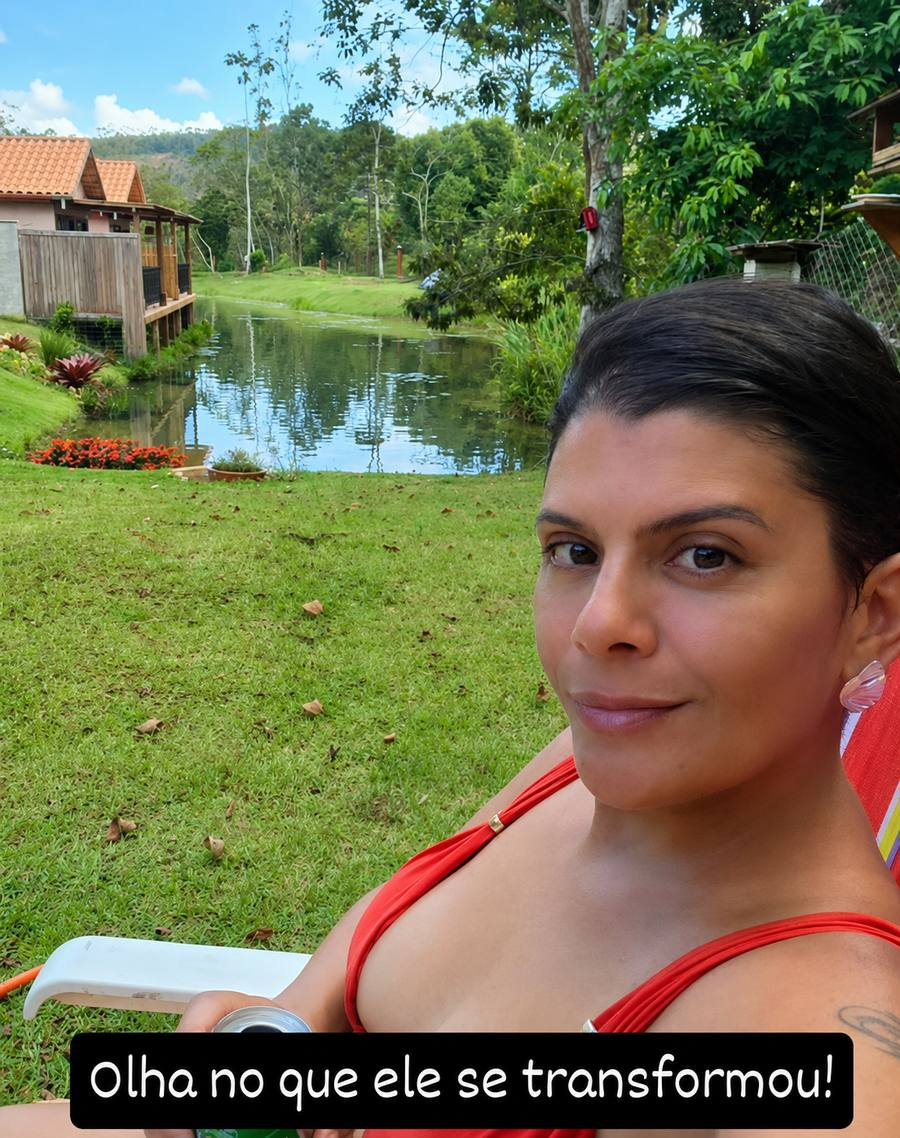
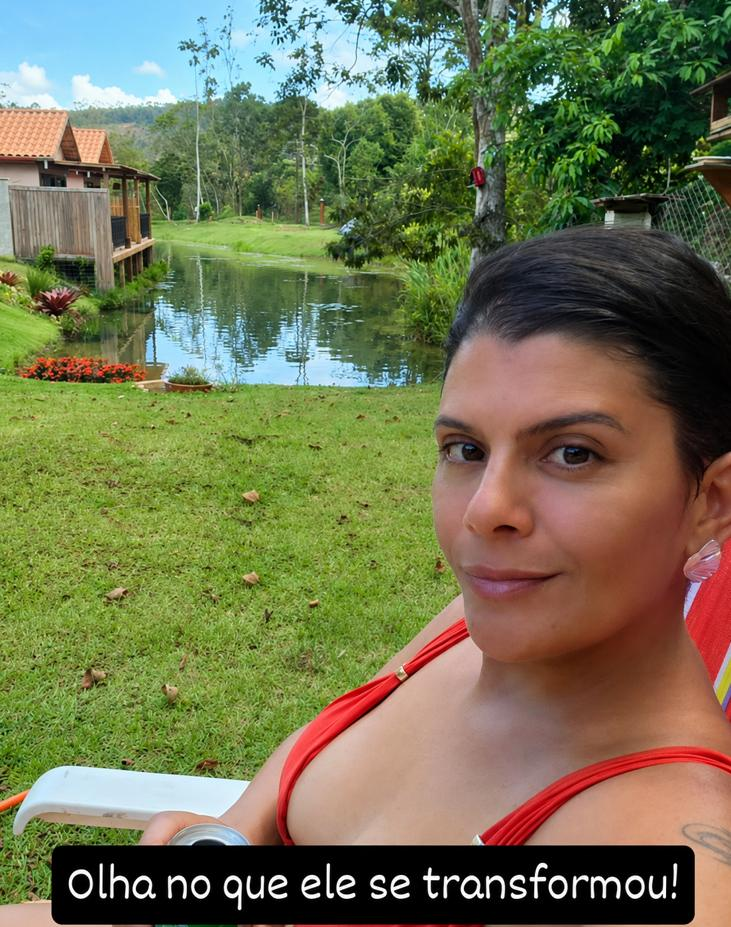
Corrige distorcao de imagem no artigo e ajusta legenda do depois

diff --git a/blog/brejo-virou-lago-potencial-do-terreno.html b/blog/brejo-virou-lago-potencial-do-terreno.html
@@ -103,8 +103,8 @@ function gtag_report_conversion(url) {
 
     <figure>
       <span class="ba-tag">Depois</span>
-      <img src="img/terreno-depois-lago.jpg" alt="Milla tomando sol com um lago, grama verde, canteiro de flores vermelhas e a casa ao fundo, no mesmo terreno depois das melhorias" width="900" height="1138" loading="lazy">
-      <figcaption>O mesmo lugar, do mesmo ângulo, depois. O curso d'água represado virou lago; a terra exposta virou gramado.</figcaption>
+      <img src="img/terreno-depois-lago.jpg" alt="Milla tomando sol com um lago, grama verde, canteiro de flores vermelhas e a casa ao fundo, no mesmo terreno depois das melhorias" width="731" height="927" loading="lazy">
+      <figcaption>O mesmo lugar, alguns anos depois. O curso d'água represado virou lago; a terra exposta virou gramado.</figcaption>
     </figure>
 
     <p>É de frente pra esse lago que passamos nossos finais de semana. É ele que nos desacelera, nos tranquiliza, nos recupera. E nenhuma dessas duas fotos é de um lugar diferente: é o mesmo chão, olhado em dois momentos.</p>

diff --git a/blog/style.css b/blog/style.css
@@ -135,7 +135,7 @@ a:focus-visible,button:focus-visible{outline:2px solid var(--teal);outline-offse
 
 /* ARTICLE IMAGES / ANTES-DEPOIS */
 article.post figure{margin:32px 0;}
-article.post figure img{width:100%;border:1px solid var(--line);}
+article.post figure img{width:100%;height:auto;border:1px solid var(--line);}
 article.post figcaption{font-size:13px;color:var(--stone);margin-top:10px;line-height:1.45;}
 .ba-tag{
   display:inline-block;background:var(--ink);color:var(--gold);
